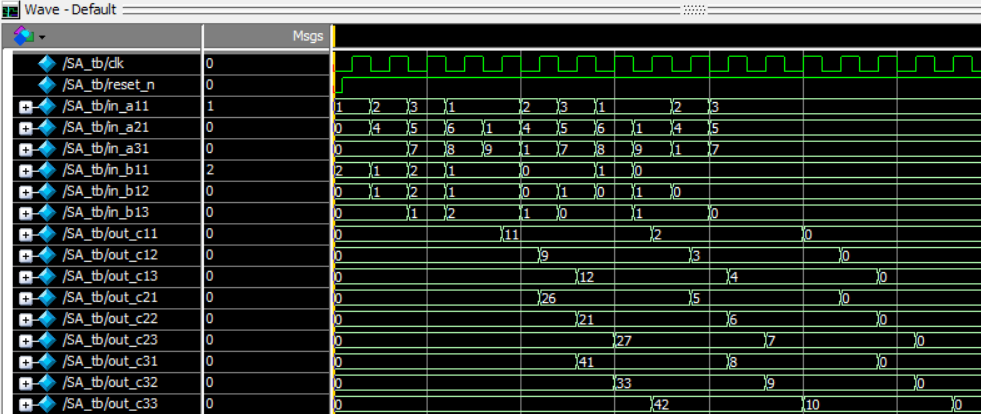
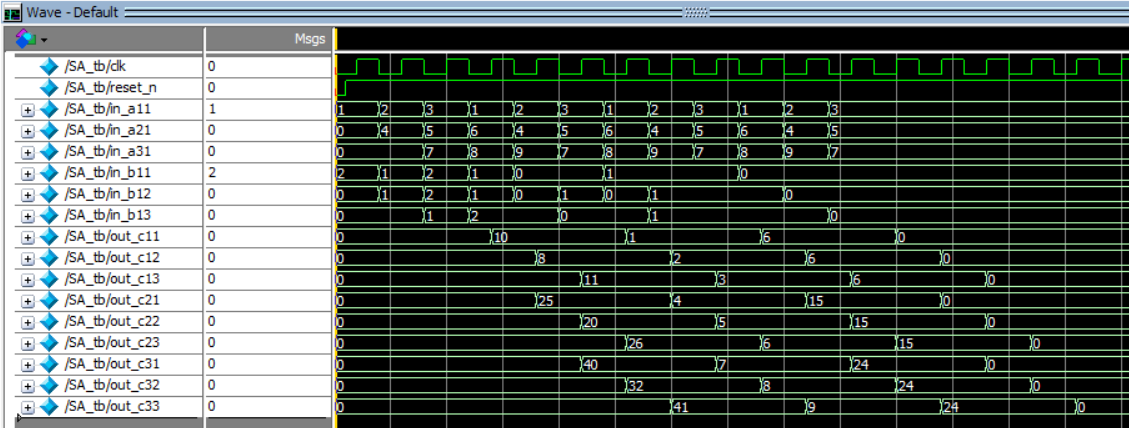
update

diff --git a/blogarticles/SAMM.html b/blogarticles/SAMM.html
@@ -207,99 +207,99 @@ always@(negedge clk or negedge reset_n) //inner clk for changing state
 			end
 		else
 			begin
-				counter <= counter + 2'd1;
+				counter <= (counter==2'd2)? 2'd0 : counter + 2'd1;
 			end
 	end
 
 pe pe11( .clk(clk),
-			.reset_n(reset_n),
-			.clr(counter==2'd0),
-			.in_a(in_a11),
-			.in_b(in_b11),
-			.out_a(in_a12),
-			.out_b(in_b21),
-			.out_c(c11)
-		 );
+	.reset_n(reset_n),
+	.clr(counter==2'd0),
+	.in_a(in_a11),
+	.in_b(in_b11),
+	.out_a(in_a12),
+	.out_b(in_b21),
+	.out_c(c11)
+	);
 		
 pe pe21( .clk(clk),
-			.reset_n(reset_n),
-			.clr(counter==2'd1),
-			.in_a(in_a21),
-			.in_b(in_b21),
-			.out_a(in_a22),
-			.out_b(in_b31),
-			.out_c(c21)
-		 );
+	.reset_n(reset_n),
+	.clr(counter==2'd1),
+	.in_a(in_a21),
+	.in_b(in_b21),
+	.out_a(in_a22),
+	.out_b(in_b31),
+	.out_c(c21)
+ );
 		
 pe pe31( .clk(clk),
-			.reset_n(reset_n),
-			.clr(counter==2'd2),
-			.in_a(in_a31),
-			.in_b(in_b31),
-			.out_a(in_a32),
-			.out_b(),
-			.out_c(c31)
-		 );
+	.reset_n(reset_n),
+	.clr(counter==2'd2),
+	.in_a(in_a31),
+	.in_b(in_b31),
+	.out_a(in_a32),
+	.out_b(),
+	.out_c(c31)
+	);
 		 
 pe pe12( .clk(clk),
-			.reset_n(reset_n),
-			.clr(counter==2'd1),
-			.in_a(in_a12),
-			.in_b(in_b12),
-			.out_a(in_a13),
-			.out_b(in_b22),
-			.out_c(c12)
-		 );
+	.reset_n(reset_n),
+	.clr(counter==2'd1),
+	.in_a(in_a12),
+	.in_b(in_b12),
+	.out_a(in_a13),
+	.out_b(in_b22),
+	.out_c(c12)
+	);
 		
 pe pe22( .clk(clk),
-			.reset_n(reset_n),
-			.clr(counter==2'd2),
-			.in_a(in_a22),
-			.in_b(in_b22),
-			.out_a(in_a23),
-			.out_b(in_b32),
-			.out_c(c22)
-		 );
+	.reset_n(reset_n),
+	.clr(counter==2'd2),
+	.in_a(in_a22),
+	.in_b(in_b22),
+	.out_a(in_a23),
+	.out_b(in_b32),
+	.out_c(c22)
+	);
 		
 pe pe32( .clk(clk),
-			.reset_n(reset_n),
-			.clr(counter==2'd3),
-			.in_a(in_a32),
-			.in_b(in_b32),
-			.out_a(in_a33),
-			.out_b(),
-			.out_c(c32)
-		 );
+	.reset_n(reset_n),
+	.clr(counter==2'd0),
+	.in_a(in_a32),
+	.in_b(in_b32),
+	.out_a(in_a33),
+	.out_b(),
+	.out_c(c32)
+	);
 			
 pe pe13( .clk(clk),
-			.reset_n(reset_n),
-			.clr(counter==2'd2),
-			.in_a(in_a13),
-			.in_b(in_b13),
-			.out_a(),
-			.out_b(in_b23),
-			.out_c(c13)
-		 );
+	.reset_n(reset_n),
+	.clr(counter==2'd2),
+	.in_a(in_a13),
+	.in_b(in_b13),
+	.out_a(),
+	.out_b(in_b23),
+	.out_c(c13)
+	);
 		
 pe pe23( .clk(clk),
-			.reset_n(reset_n),
-			.clr(counter==2'd3),
-			.in_a(in_a23),
-			.in_b(in_b23),
-			.out_a(),
-			.out_b(in_b33),
-			.out_c(c23)
-		 );
+	.reset_n(reset_n),
+	.clr(counter==2'd0),
+	.in_a(in_a23),
+	.in_b(in_b23),
+	.out_a(),
+	.out_b(in_b33),
+	.out_c(c23)
+	);
 		
 pe pe33( .clk(clk),
-			.reset_n(reset_n),
-			.clr(counter==2'd0),
-			.in_a(in_a33),
-			.in_b(in_b33),
-			.out_a(),
-			.out_b(),
-			.out_c(c33)
-		 );
+	.reset_n(reset_n),
+	.clr(counter==2'd1),
+	.in_a(in_a33),
+	.in_b(in_b33),
+	.out_a(),
+	.out_b(),
+	.out_c(c33)
+	);
 		 
 always@(posedge clk or negedge reset_n)//this part can pick out the results
 	begin
@@ -321,23 +321,20 @@ always@(posedge clk or negedge reset_n)//this part can pick out the results
 					3'd0:
 						begin
 							out_c11 <= c11;
-							out_c33 <= c33;
+							out_c23 <= c23;
+							out_c32 <= c32;
 						end
 					3'd1:
 						begin
 							out_c12 <= c12;
 							out_c21 <= c21;
+							out_c33 <= c33;
 						end
 					3'd2:
 						begin
 							out_c13 <= c13;
 							out_c22 <= c22;
 							out_c31 <= c31;
-						end
-					3'd3:
-						begin
-							out_c23 <= c23;
-							out_c32 <= c32;
 						end
 					default:
 						begin
@@ -354,8 +351,7 @@ always@(posedge clk or negedge reset_n)//this part can pick out the results
 				endcase
 			end
 	end
-endmodule
-		
+endmodule		
 											</code></pre>
 											<span class="image fit"><img src="../blogimages/samm4.png" alt="" /></span>
 										</dd>
@@ -365,7 +361,16 @@ endmodule
 											<p>1.What's the size of the data? <br/>
 												2.Is the data 3-Dimentional? <br/>
 												3.How the data stored? If we use the bram, how many ports does it have?
-												 For the systolic array is pipelined, I need to store 3 data at the same time.
+												 For the systolic array is pipelined, I need to store 3 data at the same time.<br/>
+											</p>
+										</dd>
+										
+										<dt>Ideas</dt>
+										<dd>
+											<p>1.三个数据成一组，取出后decode； <br/>
+												2.Is the data 3-Dimentional? <br/>
+												3.How the data stored? If we use the bram, how many ports does it have?
+												 For the systolic array is pipelined, I need to store 3 data at the same time.<br/>
 											</p>
 										</dd>
 									</dl>
